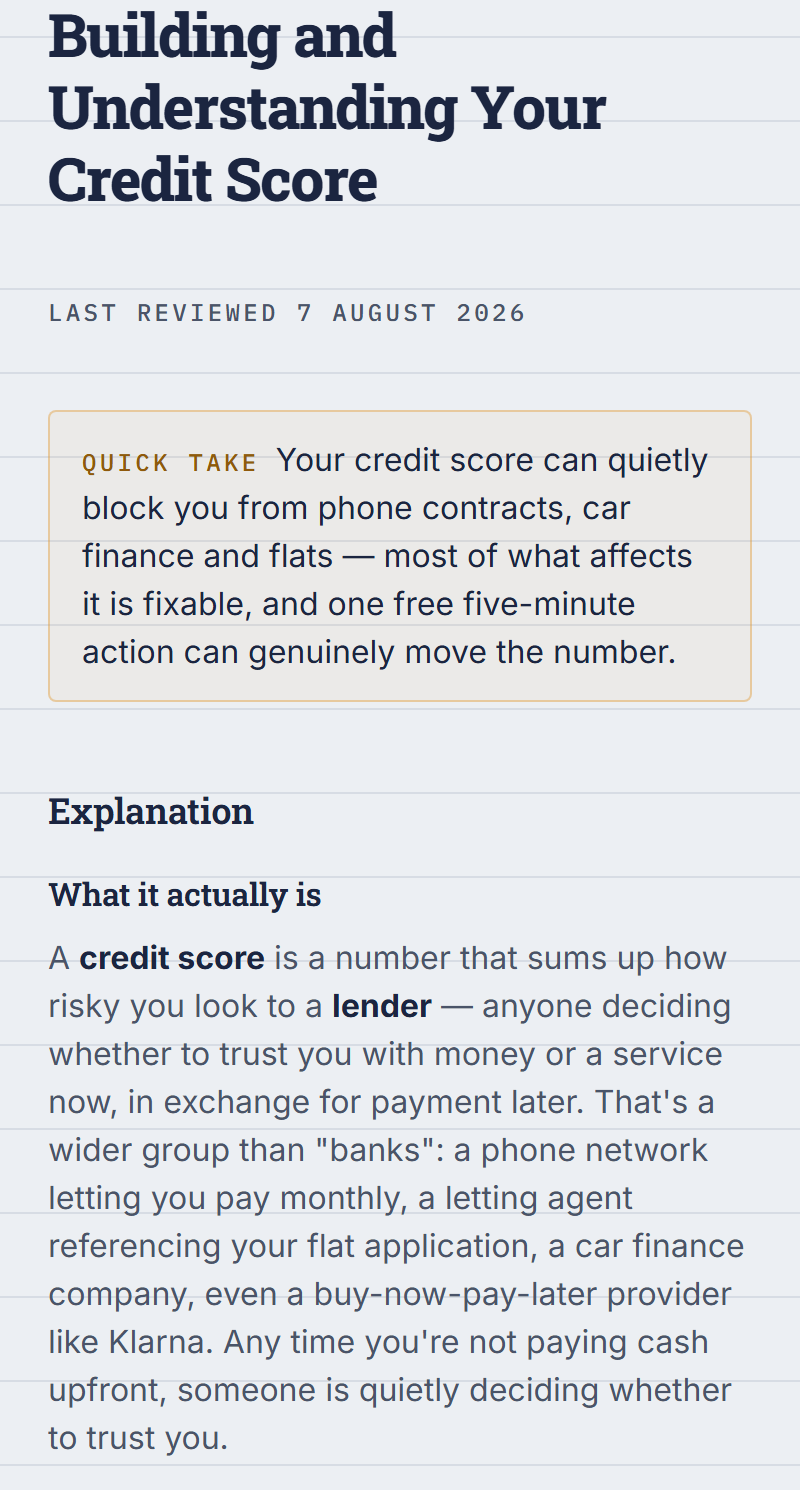
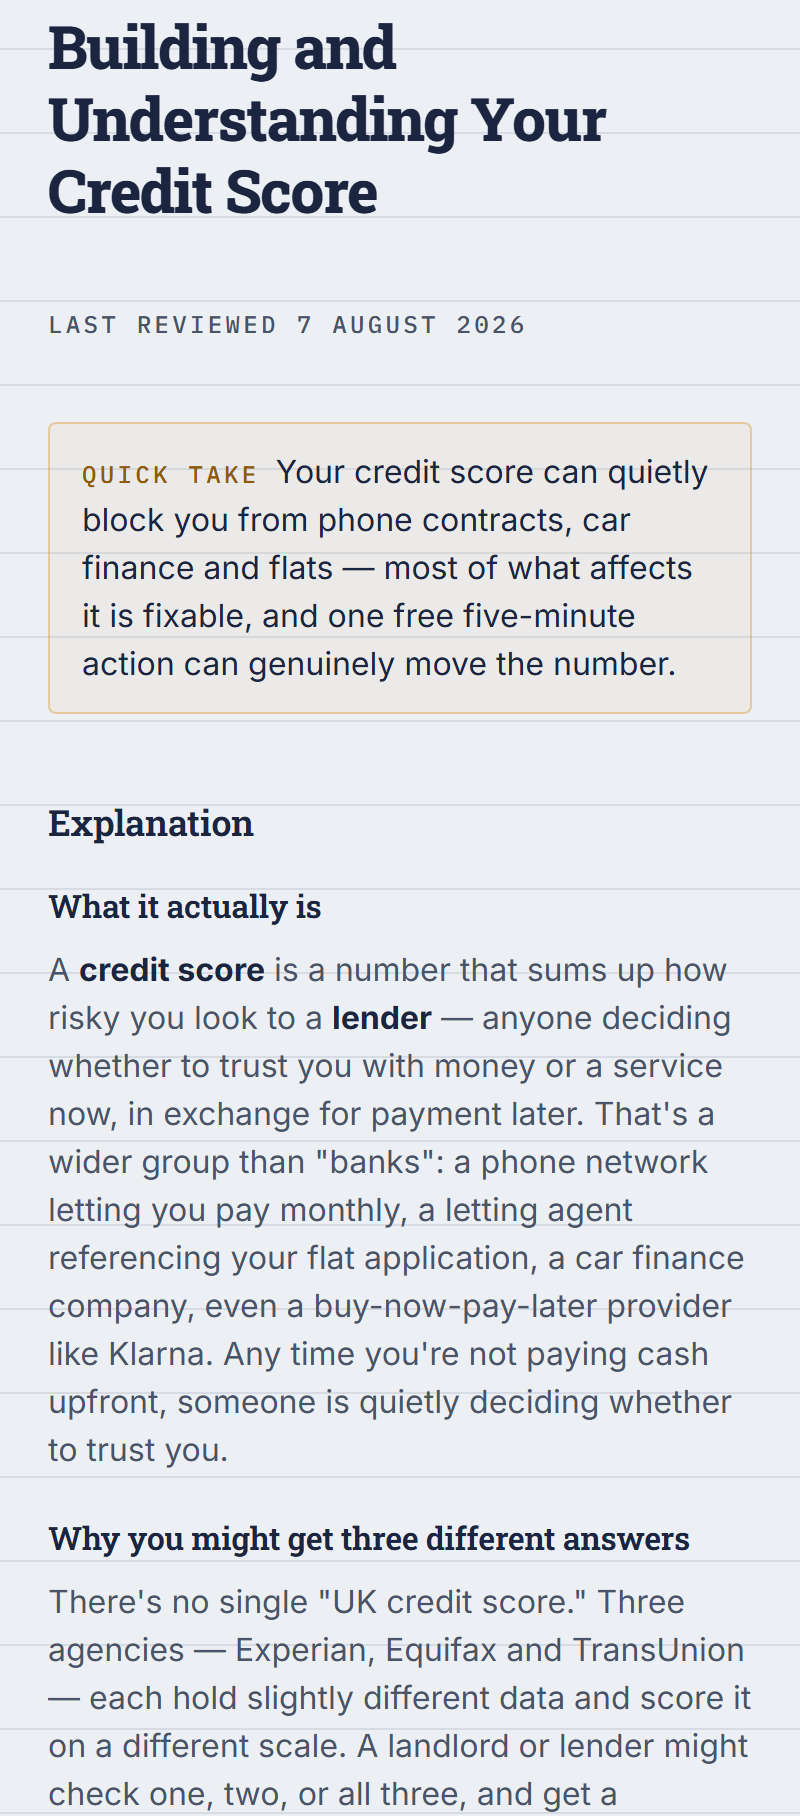
Landing: fade-out on both phone screens, peek of next quiz question, revised example titles grouped by pillar

diff --git a/index.html b/index.html
@@ -347,11 +347,27 @@
     background: #3A4560;
     margin: 0 auto 10px;
   }
+  .phone .screen {
+    position: relative;
+    border-radius: 20px;
+    overflow: hidden;
+    max-height: 700px;
+  }
+  .phone .screen::after,
+  .quiz-card::after {
+    content: '';
+    position: absolute;
+    left: 0;
+    right: 0;
+    bottom: 0;
+    height: 130px;
+    background: linear-gradient(to bottom, rgba(236, 239, 243, 0), #ECEFF3 88%);
+    pointer-events: none;
+  }
   .phone img {
     display: block;
     width: 100%;
     height: auto;
-    border-radius: 20px;
   }
   .module-shot figcaption { font-size: 14px; color: var(--ink-soft); margin-top: 12px; }
   .module-shot figcaption a { color: var(--ink); font-weight: 600; text-decoration: underline; }
@@ -373,8 +389,9 @@
     background: var(--paper);
     color: var(--ink);
     border-radius: 20px;
-    padding: 22px 18px 24px;
-    min-height: 420px;
+    padding: 22px 18px 0;
+    position: relative;
+    overflow: hidden;
   }
   .quiz-card .eyebrow { color: var(--amber-dark); }
   .quiz-intro { font-size: 14px; color: var(--ink-soft); margin-top: 6px; }
@@ -398,6 +415,9 @@
   .q-opt.ok { border: 2px solid var(--green); background: rgba(31,92,79,0.08); color: var(--green); padding: 11px 13px; }
   .q-opt.bad { border: 2px solid #A63A2B; background: rgba(166,58,43,0.07); color: #A63A2B; padding: 11px 13px; }
   .q-result { margin-top: 14px; font-size: 14px; font-weight: 600; color: var(--ink); }
+
+  .peek { margin-top: 26px; max-height: 150px; overflow: hidden; pointer-events: none; user-select: none; }
+  .peek .quiz-q { margin-top: 0; }
 
   /* -- FAQ -- */
   .faq { margin-top: 20px; max-width: 760px; }
@@ -429,6 +449,7 @@
   @media (max-width: 640px) {
     .preview-grid { grid-template-columns: minmax(0, 1fr); gap: 24px; }
     .title-list { column-count: 1; }
+    .phone .screen { max-height: 640px; }
     .try-btn { width: 100%; text-align: center; }
     .module-shot { max-width: 424px; }
     .quiz-card { padding: 20px 20px 22px; }
@@ -564,7 +585,7 @@
 
     <div class="preview-grid">
       <figure class="module-shot">
-        <div class="phone"><img src="/img/module-credit-score.png" width="800" height="1490" loading="lazy" alt="Screenshot of the free module Building and Understanding Your Credit Score on a phone. It opens with a quick take: your credit score can quietly block you from phone contracts, car finance and flats, most of what affects it is fixable, and one free five-minute action can genuinely move the number. Below it, the explanation begins by defining a credit score and a lender in plain English."></div>
+        <div class="phone"><div class="screen"><img src="/img/module-credit-score.png" width="800" height="1816" loading="lazy" alt="Screenshot of the free module Building and Understanding Your Credit Score on a phone. It opens with a quick take: your credit score can quietly block you from phone contracts, car finance and flats, most of what affects it is fixable, and one free five-minute action can genuinely move the number. Below it, the explanation begins by defining a credit score and a lender in plain English."></div></div>
         <!-- link to the live free module on ssdt.app: keep (decided 26 Oct) -->
         <figcaption>The start of a real module. <a href="https://www.ssdt.app/pillars/money/building-and-understanding-your-credit-score" target="_blank" rel="noopener">Read the full module free</a> (opens in a new tab).</figcaption>
       </figure>
@@ -581,6 +602,12 @@
             <button type="button" class="q-opt">It only affects one of the three agencies</button>
           </div>
           <p class="q-result" id="quiz-demo-result" role="status" aria-live="polite" hidden></p>
+          <div class="peek" aria-hidden="true">
+            <p class="quiz-q">What specifically does registering on the electoral roll help a lender do?</p>
+            <div class="q-opt">Increase your spending limit automatically</div>
+            <div class="q-opt">Confirm your identity and address, which reduces perceived risk</div>
+            <div class="q-opt">Remove old defaults from your file</div>
+          </div>
         </div></div>
 
         <div class="module-parts">
@@ -599,11 +626,15 @@
     <p class="section-lead titles-lead">There are over 70 modules planned across the nine pillars. Here are a few of the things you were somehow supposed to just know:</p>
     <ul class="title-list">
       <li><span class="t">Recognising a Bad Job and When to Leave</span><span class="p">Pillar: Work</span></li>
-      <li><span class="t">Getting Out of Debt: Priority Order and Realistic Plans</span><span class="p">Pillar: Money</span></li>
-      <li><span class="t">Stopped by Police: Rights and What Actually Happens</span><span class="p">Pillar: The Law</span></li>
       <li><span class="t">What You're Actually Agreeing to in a Job Offer</span><span class="p">Pillar: Work</span></li>
+      <li><span class="t">Buy Now Pay Later: The Real Cost of Pay-in-3</span><span class="p">Pillar: Money</span></li>
+      <li><span class="t">Student Loans: How They Actually Work and What You'll Repay</span><span class="p">Pillar: Money</span></li>
+      <li><span class="t">Getting Out of Debt: Priority Order and Realistic Plans</span><span class="p">Pillar: Money</span></li>
       <li><span class="t">Tenancy Agreements: What to Check Before You Sign</span><span class="p">Pillar: Life Setup</span></li>
+      <li><span class="t">Stopped by Police: Rights and What Actually Happens</span><span class="p">Pillar: The Law</span></li>
+      <li><span class="t">Should You Invest, or Pay Off Debt First?</span><span class="p">Pillar: Investing</span></li>
       <li><span class="t">Spotting Investment Scams and Unrealistic Promises</span><span class="p">Pillar: Investing</span></li>
+      <li><span class="t">Using AI Tools Without Getting Played by Them</span><span class="p">Pillar: The Internet &amp; AI</span></li>
       <li><span class="t">Recognising When Money Stress Is Affecting Your Mental Health</span><span class="p">Pillar: Health</span></li>
       <li><span class="t">Why Big Decisions Feel Impossible, and How to Move Anyway</span><span class="p">Pillar: Decision Making</span></li>
     </ul>
